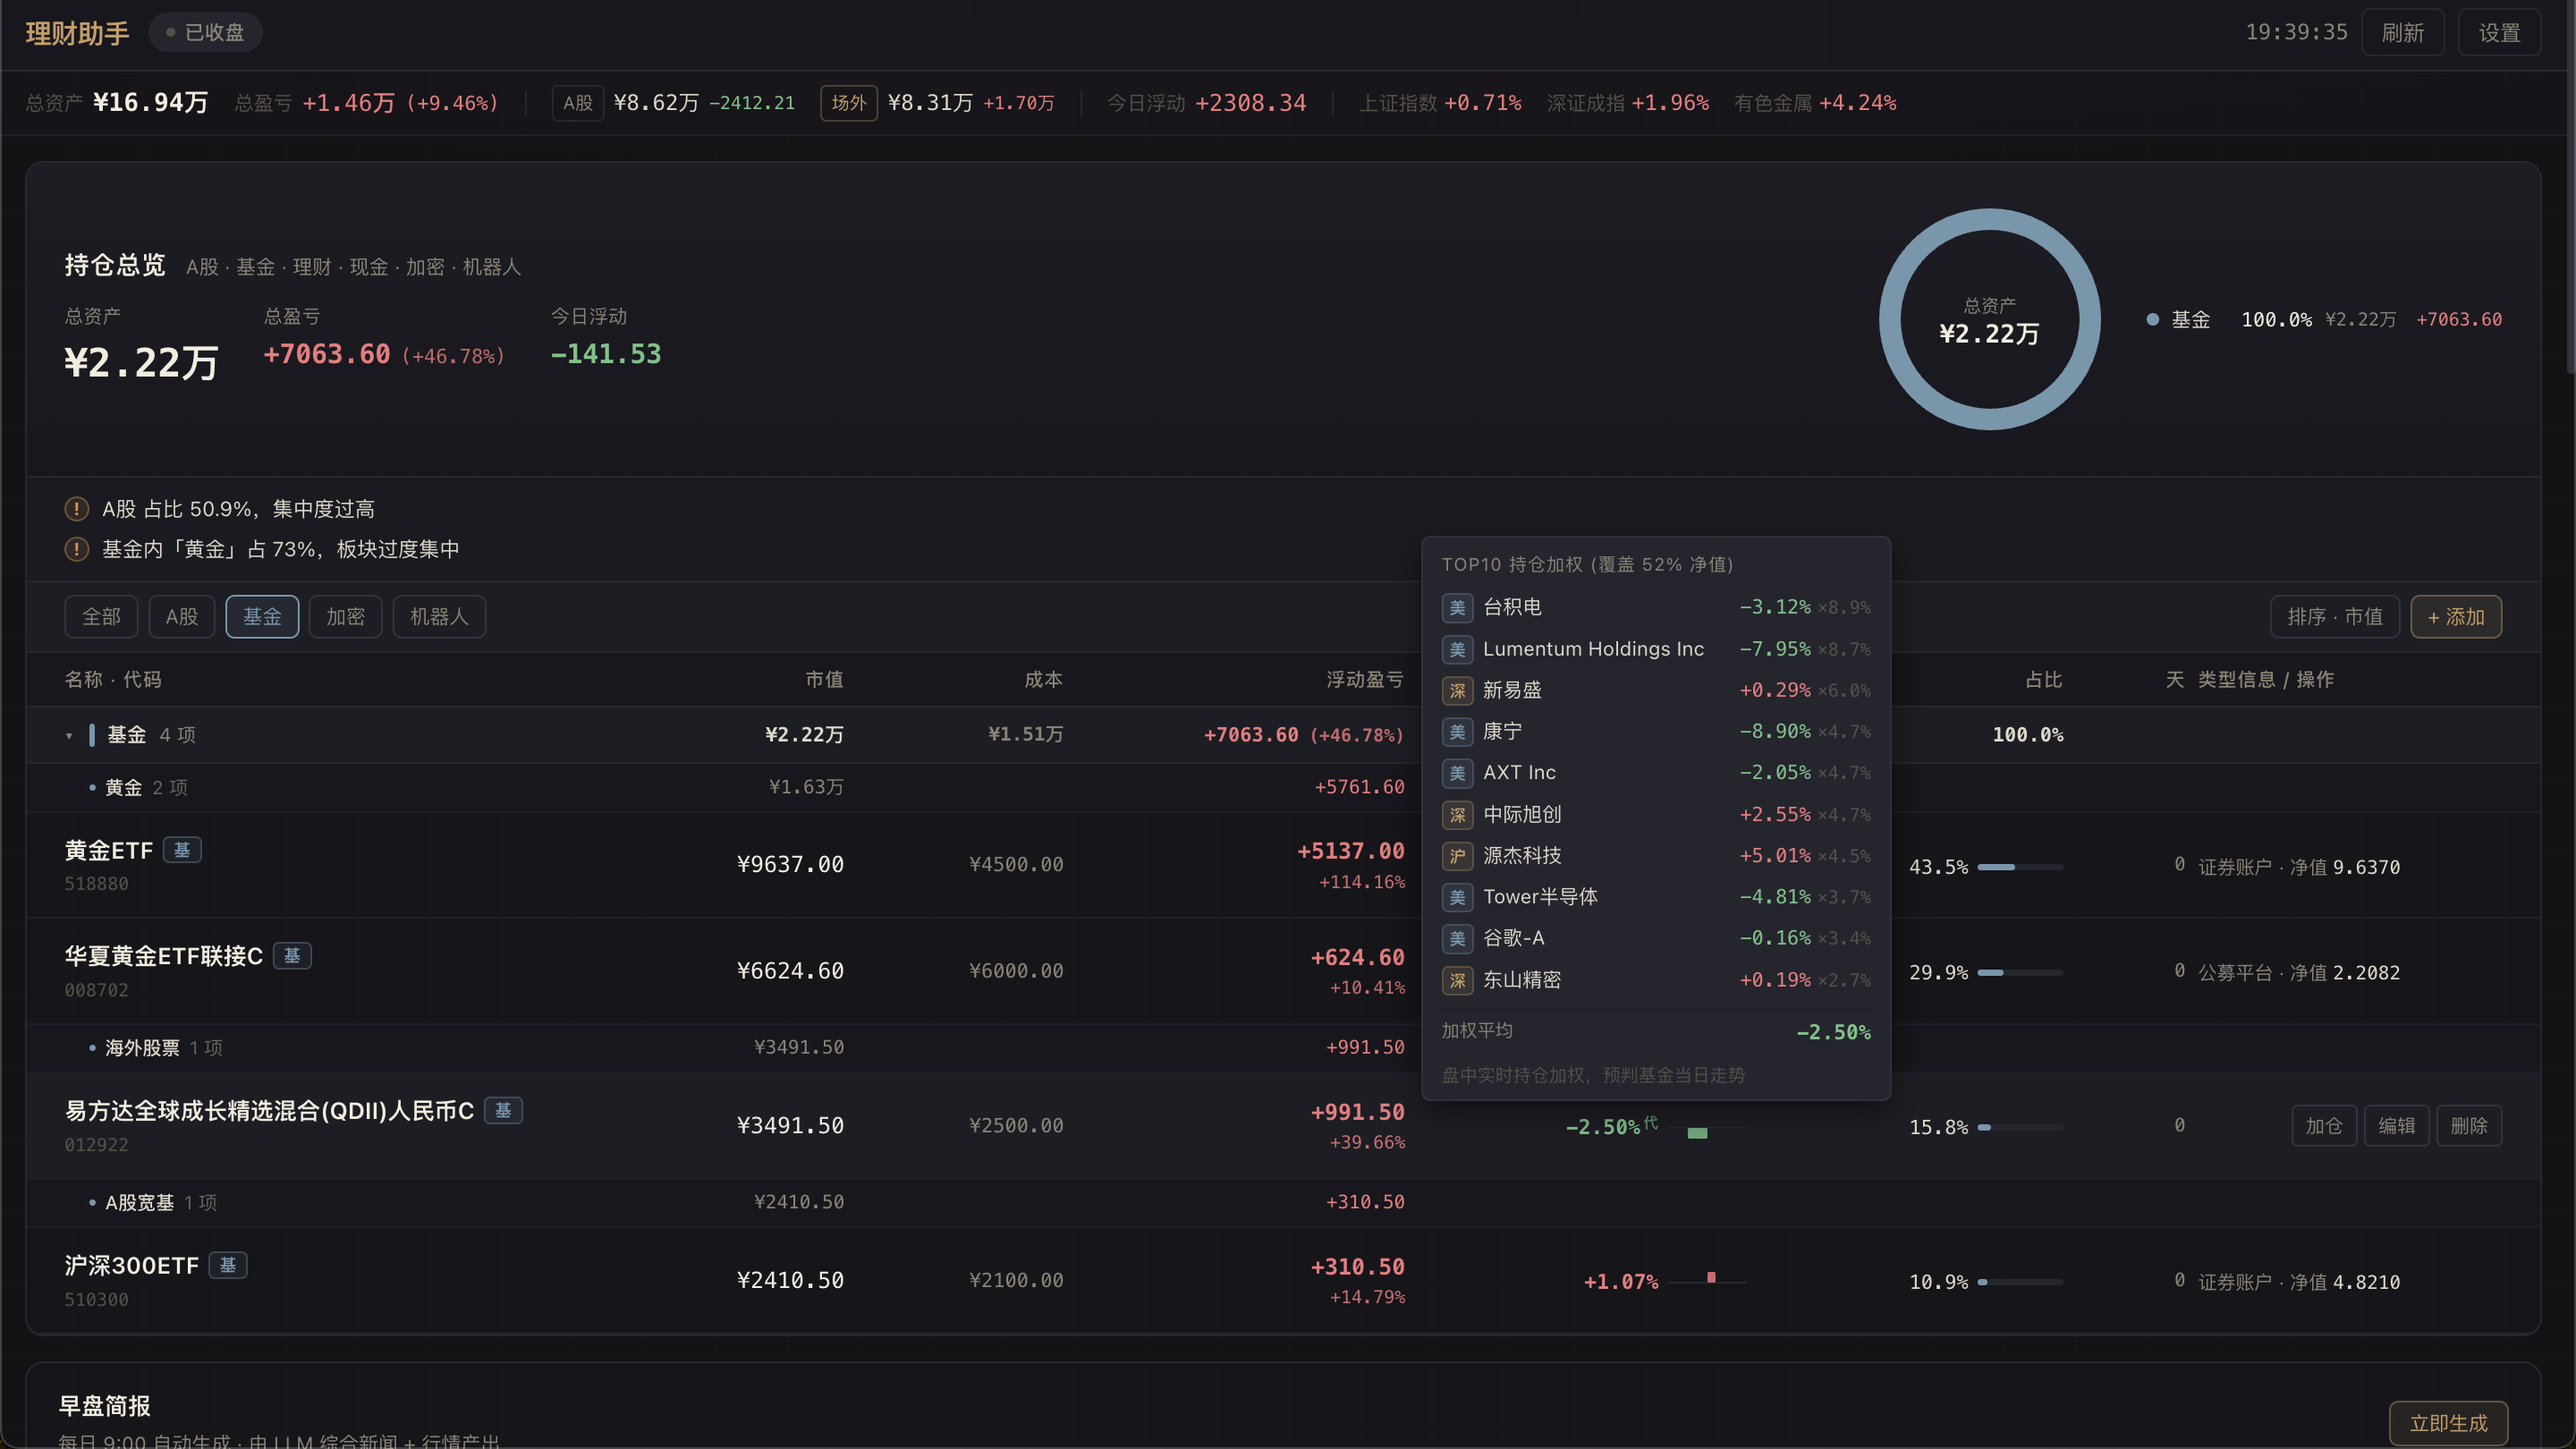
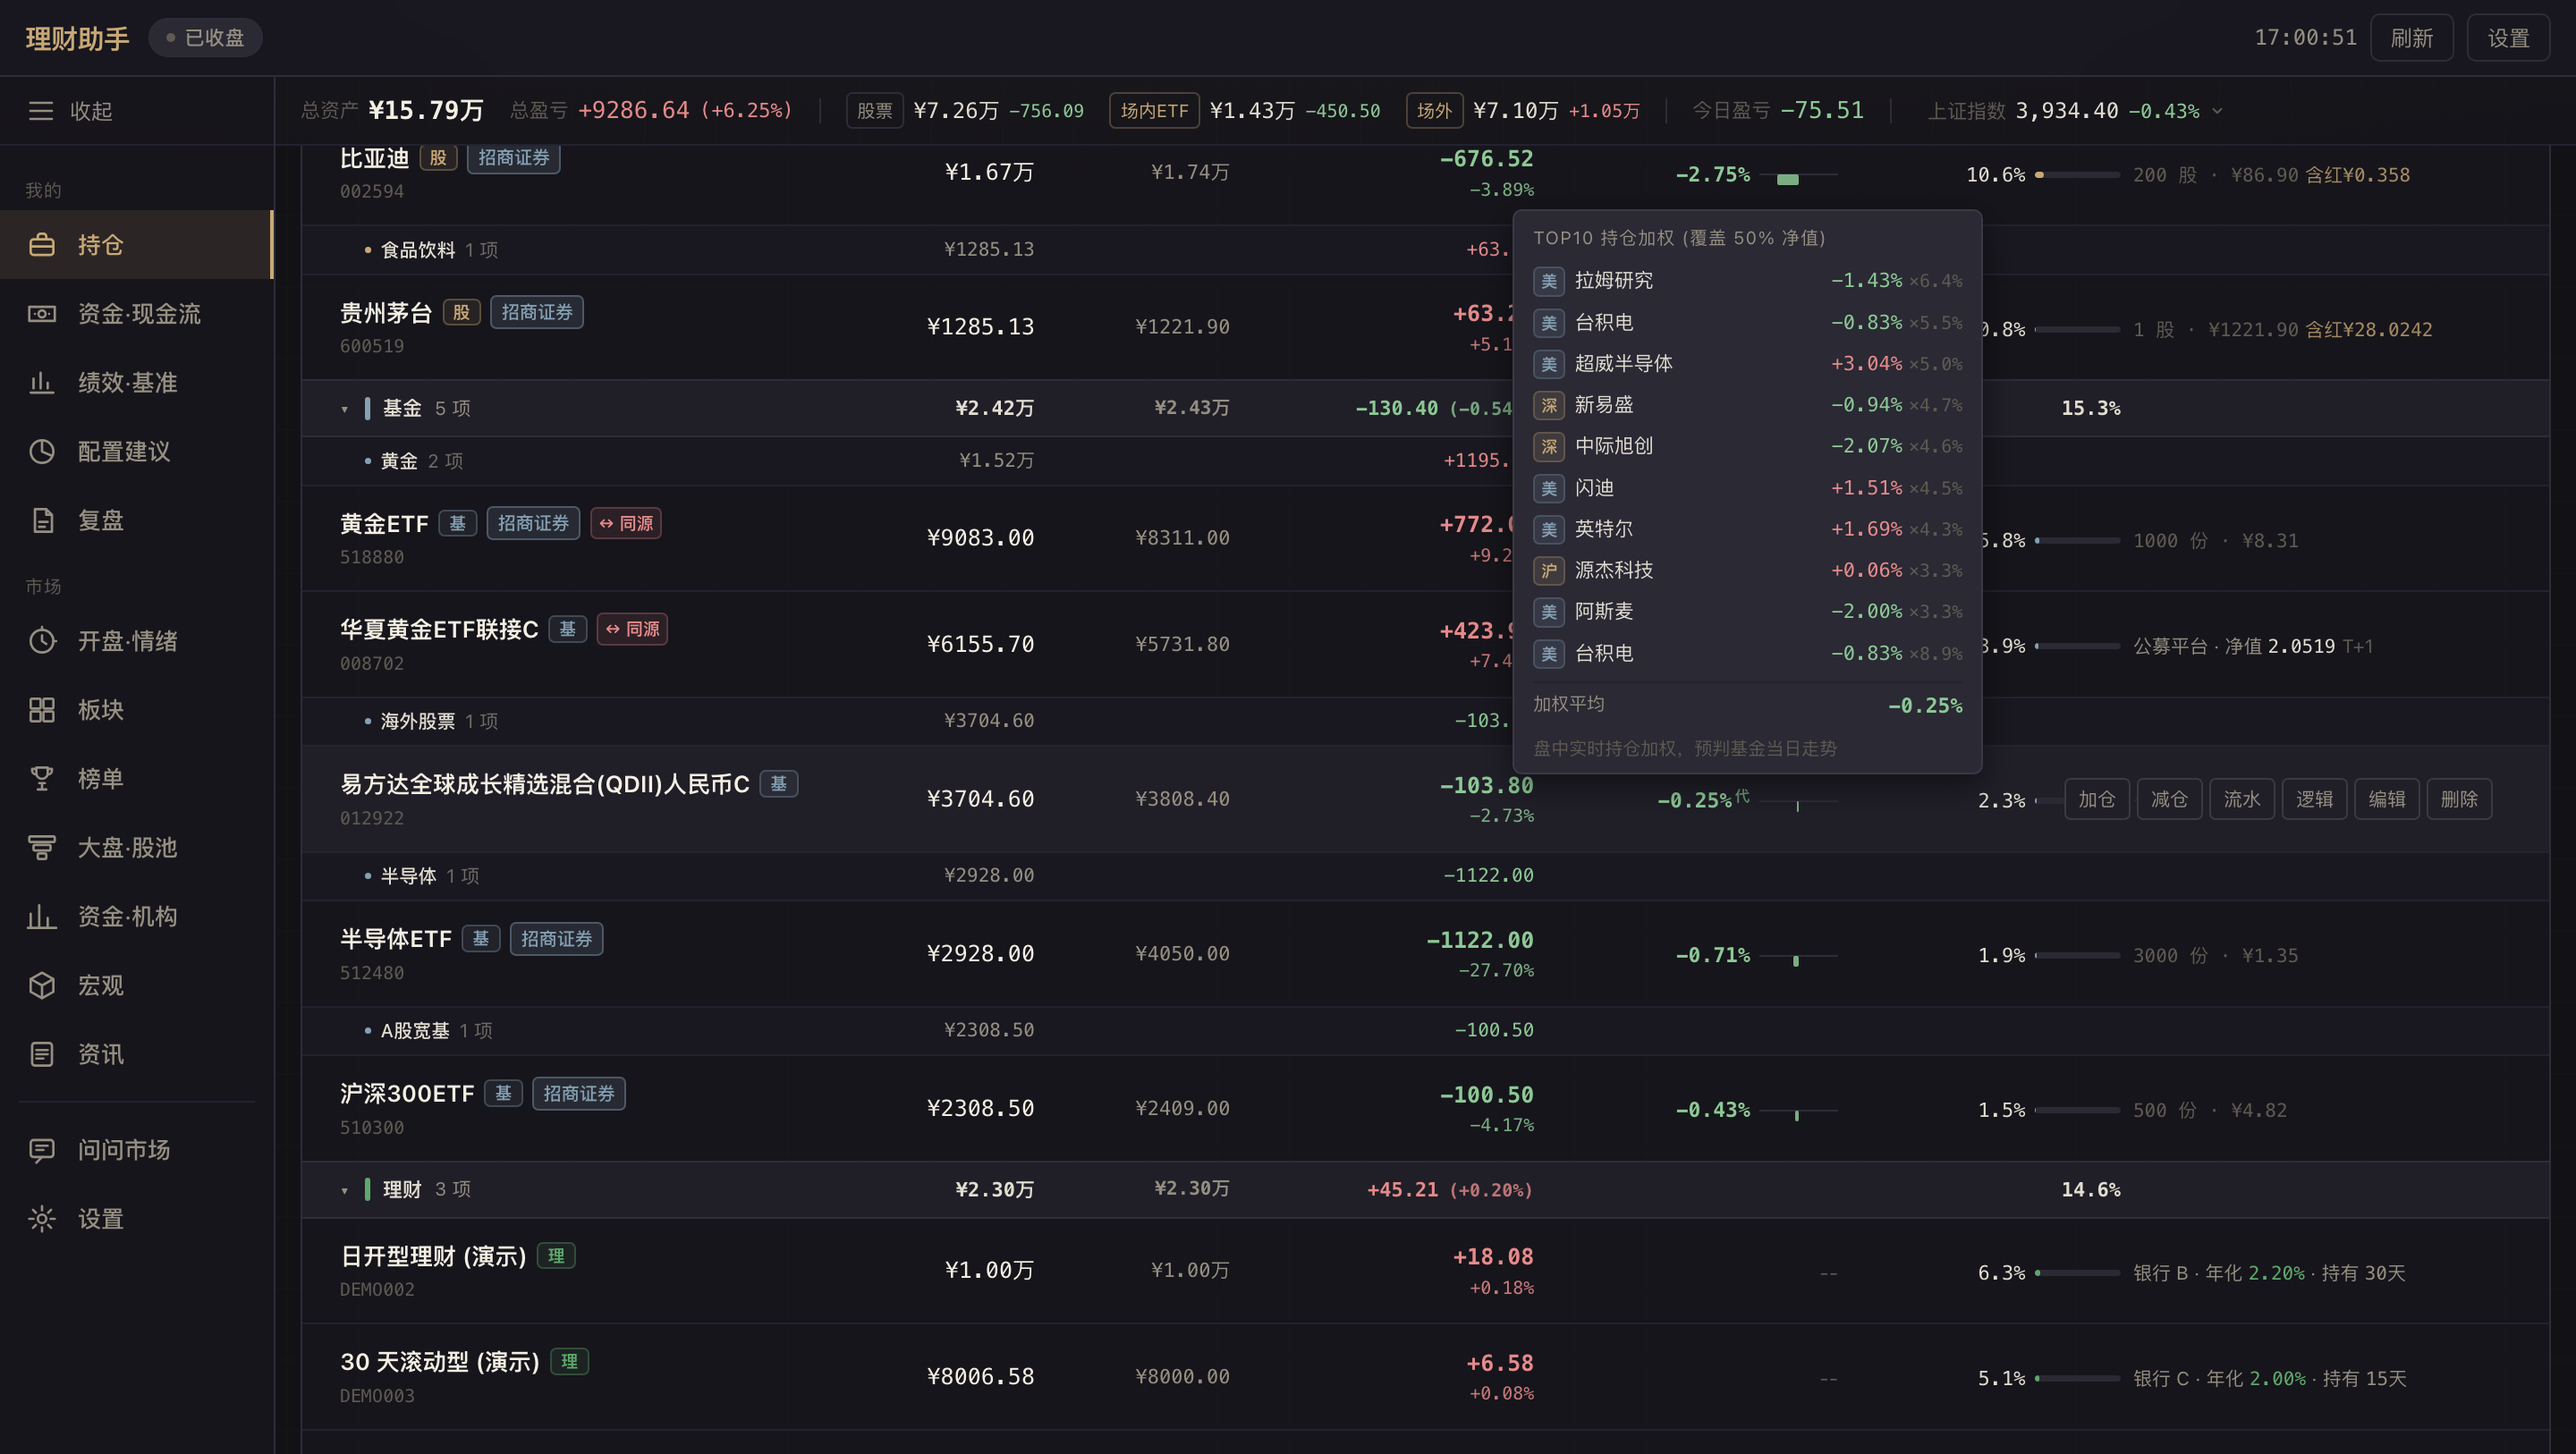
docs: 重拍 README 截图, 首屏那张原来还在展示已退役的解套功能
15 张截图全部早于导航重排(最新一张 8-19)。但"旧"不是主要问题:

- 01-dashboard(README 首屏第一张图)每行 A股 后面都挂着「解套 —— 100%/14%/
  26%」的进度条。那个特性今天刚退干净, 而全 README 最显眼的一张图还在给它
  做广告。同图里还有旧的筛选 chip(只 5 个, 缺理财/现金)、旧表头(天 类型信息/
  操作)、旧分组名(A股 而非 股票)。
- 02-sector-allocation 把 早盘简报+板块雷达+配置建议 拍在同一页。重排后这三
  张卡在三个不同页面 —— 这张图展示的是一个已经被拆掉的信息架构。删掉, 换成
  02-performance(绩效·基准) 与 03-allocation(配置建议) 两张。
- 03-unwind-npv.png 是孤儿: 解套 NPV 面板的截图, README 早已不引用, 文件还
  躺在仓里。删。

## 拍摄方式

走 headless Chrome + CDP(--force-device-scale-factor=2), 出 2880x1626 PNG,
与原图 2880x1620 同规格。没用浏览器扩展那条路: 它给的是 1548x784 的 JPEG,
比原图还小, 换上去 README 里的字会明显发虚。

三处必须真实输入、合成事件不行的:
- 04 基金代理 tooltip: 挂在 ProxyPulse 外层 div, 走 React 的 onMouseEnter
  委托, JS 手搓 MouseEvent 时好时坏 → 改用 Input.dispatchMouseEvent 真悬停。
  另外必须挑 012922(易方达全球成长 QDII) —— 随手找第一个「代」角标会命中黄金
  ETF联接, 那是商品代理(沪金+COMEX), 和这张图的说明"拉真实 top10 持仓股"
  对不上。现在图上是 TOP10 持仓加权(覆盖 50% 净值) + 拉姆研究/台积电/超威…
- 11 龙虎榜席位浮层: 说明写的是"点任意一只直接弹开席位浮层", 第一版拍出来右侧
  还停在"点左侧任意一只股票看 K 线" —— 浮层根本没开。改真实点击后拿到了
  买入前五 7.67亿 / 卖出前五 3.20亿 + 北向/机构标签。
- 15 全球指数面板: 同样改真实点击。

每张拍完断言页面上确实有它该有的东西(expect), 04 第一版就是被这条抓出来的。

## 两张没换, 说明白

- 06 / 07 是 AI 回答正文的特写, 内容与导航重排无关, 重拍要现跑 agent 烧 token,
  没动。
- 10 事件日历: 演示持仓当下未来 75 天没有已披露的财报/除权/解禁, 新拍出来是
  "未来 75 天没有已知事件"的空面板, 说明不了任何东西 —— 沿用旧图(有 12 条真实
  事件), 代价是这一张里的侧栏还是旧的 8 项扁平导航。

## 顺带改掉一处 README 正文错误

拍 03-allocation 时对出来的: 配置建议早就从「5 桶单一模板」变成「10 桶 × 按总
资产 4 档」了, README 那张三行五列的表(现金/理财/A股/基金/加密)数字和桶都不对。
按 AllocationAdvisor.jsx 的 TEMPLATE_MATRIX 重写, 取「¥30-100 万」这一档, 并
补上分档的理由(海外配置对小资金不划算)。
[…]

diff --git a/README.md b/README.md
@@ -305,7 +305,7 @@ prompt 里已经堆了几十条读盘原则，靠"再加一句嘱咐"来修 bug 
 
 ![加仓表单 - 按股买实时预览](docs/screenshots/05-add-lot-form.png)
 
-![板块雷达 + 配置建议](docs/screenshots/02-sector-allocation.png)
+![绩效·基准：跑赢基准对照 + 板块雷达](docs/screenshots/02-performance.png)
 
 ### 2. 板块雷达
 
@@ -350,13 +350,21 @@ prompt 里已经堆了几十条读盘原则，靠"再加一句嘱咐"来修 bug 
 
 ### 4. 配置建议（AllocationAdvisor）
 
-3 套预设模板（保守 / 平衡 / 激进），显示**当前 vs 目标**配比 + 该加多少 / 该减多少：
+3 套预设模板（保守 / 平衡 / 激进）× **按总资产 4 档**，显示**当前 vs 目标**配比 + 该加多少 / 该减多少。
 
-| 模板 | 现金 | 理财 | A股 | 基金 | 加密 |
-|---|---|---|---|---|---|
-| 保守 | 15% | 50% | 12% | 23% | 0% |
-| 平衡 | 8% | 30% | 28% | 29% | 5% |
-| 激进 | 5% | 12% | 38% | 35% | 10% |
+分档是因为海外配置对小资金不划算（开户 / 汇兑 / 单笔门槛都有固定成本），所以海外比重随资金量上行：`< ¥30 万` / `¥30-100 万` / `¥100-500 万` / `> ¥500 万`。
+
+10 个桶按「实质」穿透——ETF / QDII 先按底层归到对应桶，不再有一个笼统的「基金」桶。以「¥30-100 万」这一档为例：
+
+| 模板 | 现金 | 理财 | 债基 | A股 | 港股 | 美股 | 其它海外 | 商品 | 加密 |
+|---|---|---|---|---|---|---|---|---|---|
+| 保守 | 21% | 42% | 16% | 10% | 1% | 5% | 0% | 5% | 0% |
+| 平衡 | 22% | 25% | 8% | 20% | 3% | 10% | 2% | 6% | 4% |
+| 激进 | 22% | 8% | 5% | 28% | 4% | 14% | 2% | 7% | 10% |
+
+设计原则写在 `AllocationAdvisor.jsx` 的 `TEMPLATE_MATRIX` 上方：保守 = 现金+理财+债基 ≥ 60%；平衡 = 权益与稳健 50:50；激进 = 权益+加密 ≥ 70%。
+
+![配置建议 + A股行业缺口](docs/screenshots/03-allocation.png)
 
 ### 5. 基金代理标的（场外基金盘中预判）
 
@@ -556,7 +564,7 @@ A股 / 港股 / 美股个股实时报价全部走 Sina 免费接口，无需 API
 - **当日复盘带上「那天的同源结构」**（穿透后按行业归并，走上面的回看口径）：以前只能说"你又加仓了浮亏票"，现在能说清这一笔把敞口堆到了什么程度——实测它写出「同一天两次买入，第二笔还买得更高，而这只穿透同源结构后一家就占了近 38% 的敞口」。限定成事实陈述，不给方向
 - AI 复盘按你的资金形态（固定资金 vs 复利增值）讲纪律一致性，只评过程不指方向
 
-![组合净值曲线 + AI 复盘](docs/screenshots/09-portfolio-curve.png)
+![组合净值曲线 + 同源风险矩阵](docs/screenshots/09-portfolio-curve.png)
 
 事件日历（资讯页第五源）：
 
